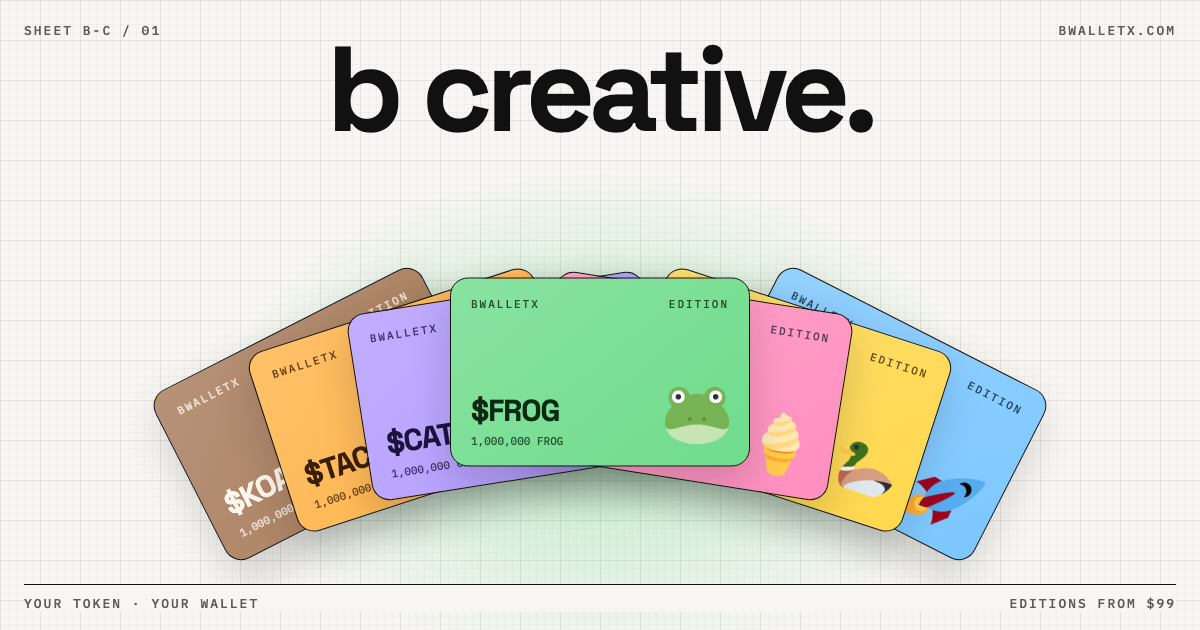
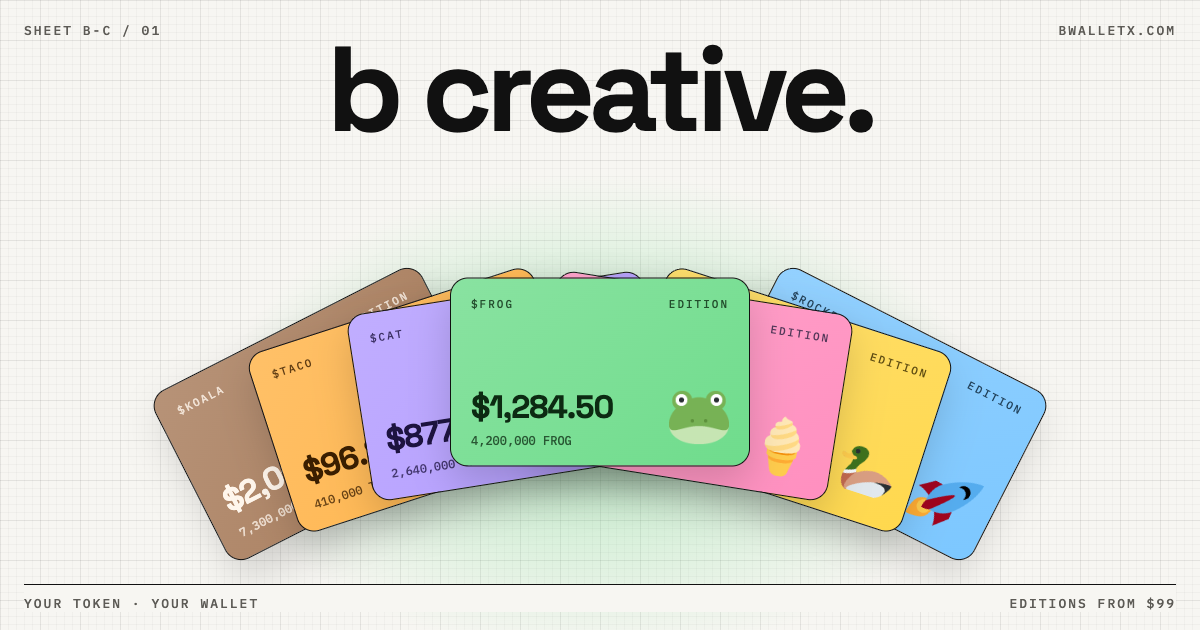
b creative: OG cards show value + token balance

diff --git a/b-creative.html b/b-creative.html
@@ -11,7 +11,7 @@
     <meta property="og:site_name" content="bWalletX" />
     <meta property="og:title" content="b creative" />
     <meta property="og:description" content="Your token, your wallet. Free themes for everyone, branded editions from $99." />
-    <meta property="og:image" content="https://bwalletx.com/og-b-creative.png" />
+    <meta property="og:image" content="https://bwalletx.com/og-b-creative.png?v=2" />
     <meta property="og:image:width" content="1200" />
     <meta property="og:image:height" content="630" />
     <meta property="og:image:alt" content="A fan of colourful wallet cards (FROG, DUCK, KOALA, ICECREAM and more) on drafting paper, with the words b creative." />
@@ -19,7 +19,7 @@
     <meta name="twitter:site" content="@bWalletX" />
     <meta name="twitter:title" content="b creative" />
     <meta name="twitter:description" content="Your token, your wallet. Free themes for everyone, branded editions from $99." />
-    <meta name="twitter:image" content="https://bwalletx.com/og-b-creative.png" />
+    <meta name="twitter:image" content="https://bwalletx.com/og-b-creative.png?v=2" />
     <meta name="theme-color" content="#f7f6f2" />
     <link rel="icon" href="/favicon.ico" />
     <link rel="preconnect" href="https://fonts.googleapis.com" />
